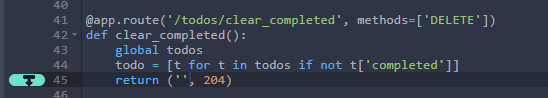
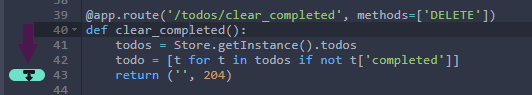
python tutorial documentation more complete

diff --git a/docs/tutorials-bughunt-python.md b/docs/tutorials-bughunt-python.md
@@ -16,57 +16,58 @@ For more information about Rule Scripting refer to [our reference](rules-index.m
 ## Bug scenarios
 
 __Level: Beginner__
-- __The bug: Clear Completed does work - when clicked - completed todos are not cleared.__
-    - **Reproduce:** Add a few tasks, check one or more as completed using the checkbox on the left of the task and click the `Clear completed` button on the bottom right corner.
+- __The bug: ``Clear Completed`` button does not work. When clicked - completed todos are not cleared.__
+    - **Reproduce:** Add a few todos, check one or more as completed using the checkbox on the left of the task and click the ``Clear completed`` button on the bottom right corner.  
+
+    ![](/img/screenshots/python_tutorial_3.png)  
+
     - **Debug:**  
-        1. In the Rookout app, open the file `app.py`  
-
+        1. Load the app's code from github - Press `Add Source` -> `GithHub` -> Repository Owner: `Rookout` -> Repository: `tutorial-python` -> `View Repository`  
+        ![](/img/screenshots/python_tutorial_4.png)  
+        2. In the [Rookout app](https://app.rookout.com), open the file `app.py`  
         ![](/img/screenshots/python_tutorial_0.png)  
-
-        2. Using the **Rules** pane on the right, select the *Rule Type* "Dump Frame"
-        3. Add this rule to line 45 by clicking left to the line numbering (just like you would have created a breakpoint on an IDE)
+        3. Add a rule to line 43 by clicking left to the line numbering (just like you would have created a breakpoint on an IDE)  
         ![](/img/screenshots/python_tutorial_1.png)  
         4. Try clicking on `Clear completed` again to see the message that pops in the Rookout app
-        5. We can now see the whole stacktrace leading to this point and we pinpoint the error to this message :
+        5. We can now see the whole stacktrace leading to this point and the local variables:  
         ![](/img/screenshots/python_tutorial_2.png)  
-        6. We see the `Locals` object and all we have in is `this`, which has `todos` inside it.
-            - it means we need to access todos as `this.todos.filter(...` and not `todos.filter(...`
-        7. We can now know what is not working on the server-side and fix it.
+        6. Notice how we created a new variable ``todo`` instead of overriding ``todos``
+        7. Now we know what the bug is. This example is a very basic example for using Rookout
 
 __Level: Beginner__
 - __The bug: Special characters (<,>,;,`,&,/,\\) are not being accepted as part of the title when Adding or Updating a Todo.__
-    - **Reproduce:** Add a task with special characters. All these characters should not be saved.
+    - **Reproduce:** Add a todo with special characters. All of these characters should disappear.
     - **Debug:**
-        1. In the Rookout app, open the file `/src/services/todos.js`
-        2. At lines 14 and 73 we see that the title passes the function `utils.cleanString(...)` - Let's add a `Dump Frame` to the end of the function in file `/src/services/utils.js`.
-        3. Try to add a task with some of these characters to get the frame.
-        4. We can see that after using this function, on line 3 these characters are being found and replaced by regex. We found the source of the issue.
+        1. In the Rookout app, open the file `app.py`
+        2. In line 66 we see that the todo title is being filtered by `cleanStr` - Let's add a `Dump Frame` to line 67
+        3. Try to add a todo with some special characters (e.g: `do <> this`)
+        4. We can clearly see both `req['title']` and `todoStr` - which is the cleaned title.
         ```
-        regex = ...
-        this = ...
-        str = "Test < > &&"
-        trimmedStr = "Test"
+        todos = [ {...len:3},{...len:3} len:2]
+        req = {... len:1 }
+            title = "do <> this"
+        todoStr = "do this"
         ```
 
 __Level: Intermediate__
 - __The bug: Duplicate Todo adds an invalid todo instead of an exact copy of an existing one.__
     - **Reproduce:** Add a task and when hovering on the text, on the right side you have the **&** symbol. Click on it to duplicate the task.
     - **Debug:**
-        1. In the Rookout app, open the file `/src/services/todos.js`
+        1. In the Rookout app, open the file `app.py`
         2. Using the **Rules** pane on the right, select the *Rule Type* "Log"
-        3. Add this rule to line 104
+        3. Add this rule to line 92
         4. Before triggering the rule, let's edit it so it returns what we want
         5. In the **Rules** pane on the right, click the *Edit Rule* (pen) icon next to the rule you just added. It will open up the Rule configuration as a JSON file
-        6. On line 6 in the `paths` object let's add a property `"store.rookout.locals.todo": "frame.todo"`
-        7. On line 28 we have `processing.operations` object, let's add a new operation in the array :
+        6. On line 37 in the `paths` object let's add a property `"store.rookout.locals.dup": "frame.dup"`
+        7. On line 51 we have `processing.operations` object, let's add a new operation in the array :
 
         __name: send_rookout - means we are sending the information to the rookout web application__
-        __path: store.rookout.locals.todo - we tell the rule what information to send__
+        __path: store.rookout.locals.dup - we tell the rule what information to send__
 
         ```
         {
             "name": "send_rookout",
-            "path": "store.rookout.locals.todo"
+            "path": "store.rookout.locals.dup"
         }
         ```
         
